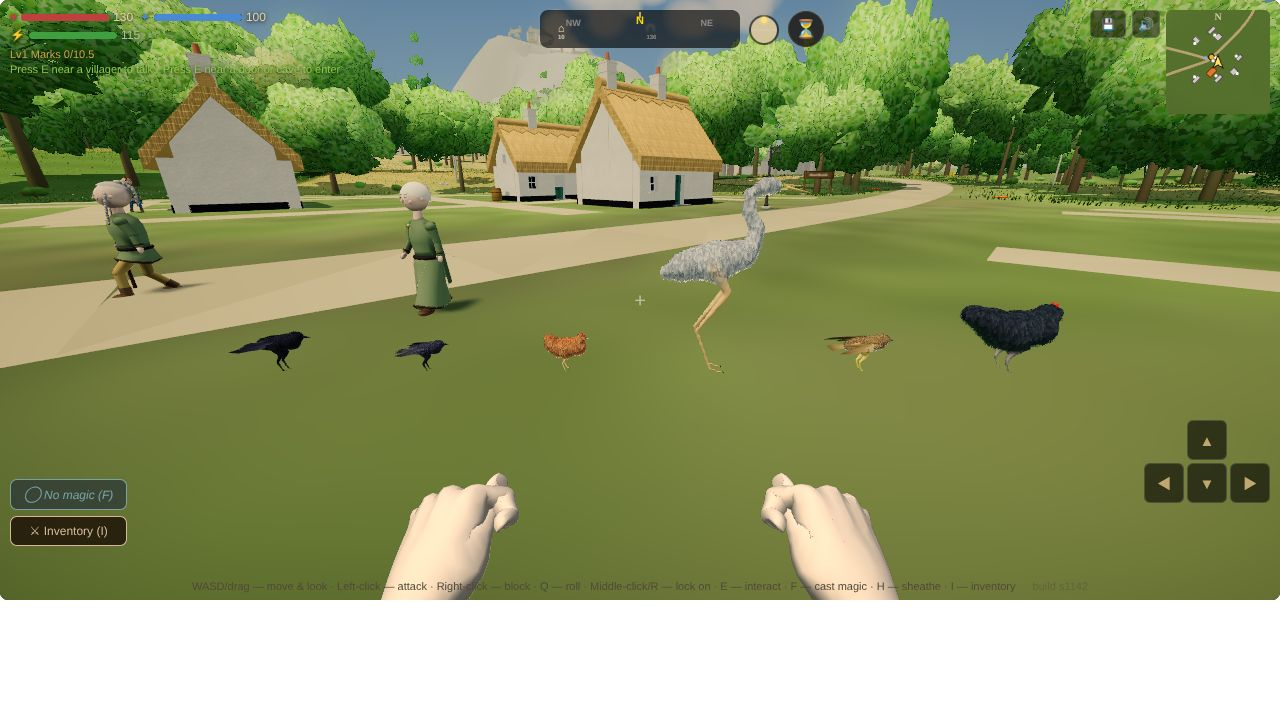
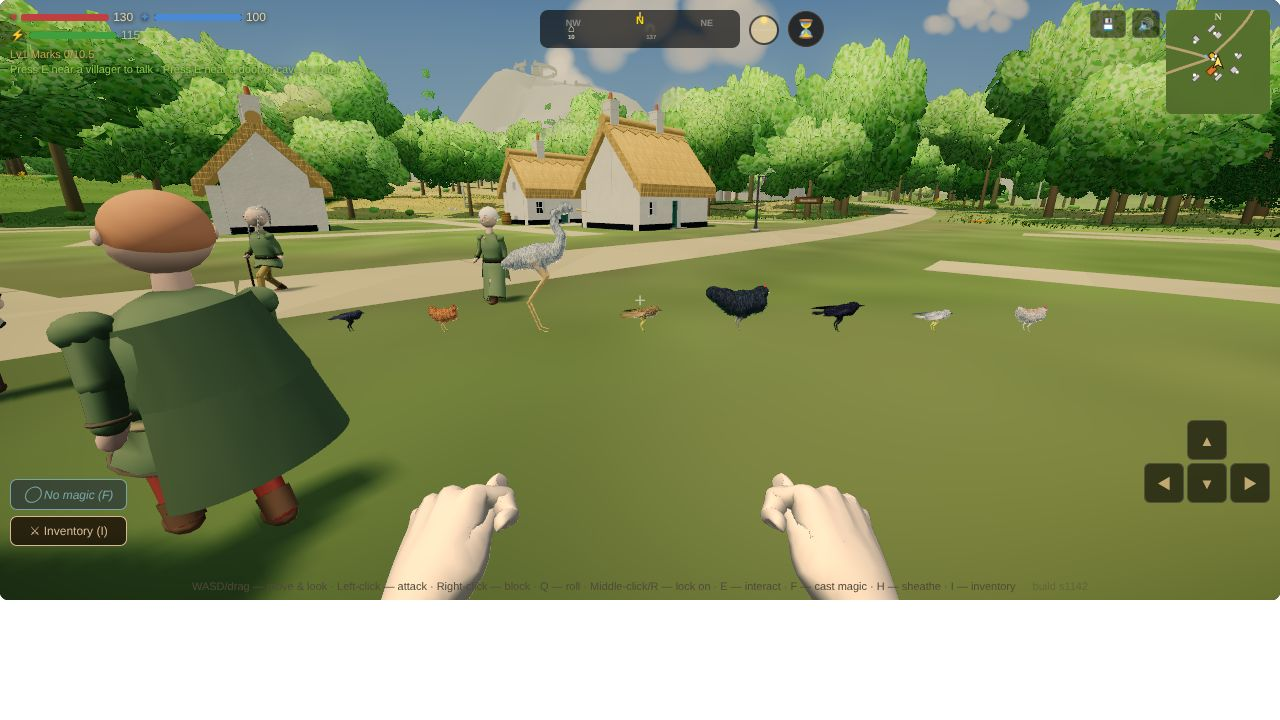
Bodies: Session 1740 — the Mark's Skyraven, Stormshrike and Tundra Grouse on the birds' path
Claude-Session: https://claude.ai/code/session_019eFMMoLi6YaA85dpmn3a9F

diff --git a/js/34-creatures.js b/js/34-creatures.js
@@ -340,6 +340,9 @@ BIRD.Hen={len:.4,col:0x99602e,hop:.8,run:'trot',farm:true};
 // (hcBirdPose): it hops if it has a hop, else trots, else walks; it soars only if it has a soar. So the Crag Hawk walks and soars, the Great
 // Heron walks (lifted, it keeps walking), the Capercaillie trots as the hen does. Beak to tail 0.95, 0.55 and 0.85 m (the cock)
 BIRD['Great Heron']={len:.95,col:0x9ea3a8,hop:1.2};BIRD['Crag Hawk']={len:.55,col:0x704f33,hop:.9};BIRD.Capercaillie={len:.85,col:0x1f2124,hop:1};
+// Session 1740: the Mark's three (L3, OG-031; the kit's MARK), wild. The Skyraven is the kit's raven at full size (the common raven is it at
+// .9), so it hops and soars; the Stormshrike, the hawk's plan in white, walks and soars; the Tundra Grouse, the hen's, trots and never soars
+BIRD.Skyraven={len:.64,col:0x14141a,hop:1};BIRD.Stormshrike={len:.47,col:0xe0e0e2,hop:.9};BIRD['Tundra Grouse']={len:.40,col:0xd8d4cc,hop:.9};
 function birdStandIn(len,col){const k=len/.535,parts=[],M=new THREE.Matrix4(),put=(geo,x,y,z,sx,sy,sz,rx)=>{M.makeRotationX(rx||0);
     const g=geo.index?geo.toNonIndexed():geo;g.applyMatrix4(new THREE.Matrix4().makeScale(sx,sy,sz).premultiply(M).premultiply(new THREE.Matrix4().makeTranslation(x*k,y*k,z*k)));parts.push(g);};
   put(new THREE.SphereGeometry(1,10,7),0,.17,0,.08*k,.075*k,.17*k);put(new THREE.SphereGeometry(.055*k,8,6),0,.25,.15,1,1,1);
@@ -928,7 +931,7 @@ const HC_KINDS={'Wolf':{plan:'wolf'},'Snow Wolf':{plan:'wolf',own:true},'Dire Wo
   'Gargoyle':{plan:'gargoyle',own:true,person:true,merge:true,ik:true,glow:[1,.31,.13],glowR:.032,glowAt:{f:.8,up:.55,out:.5},garg:true},
   'Wraith':{plan:'wraith',own:true,person:true,legless:true,rest:HC_WRAITH_REST},'Phantom':{plan:'phantom',own:true,person:true,legless:true,rest:HC_WRAITH_REST},
   'Deer':{plan:'deer',ik:true},'Hind':{plan:'deer',own:true,ik:true,bare:true},'Red Fox':{plan:'redfox'},'Brown Hare':{plan:'brownhare'},'Badger':{plan:'badger'},'Otter':{plan:'otter'},'Cow':{plan:'cow',ik:true},'Sheep':{plan:'sheep',ik:true},'Goat':{plan:'goat',ik:true},'Elderstag':{plan:'stag',ik:true},'Gatefen Boar':{plan:'gatefenboar'},'Redspine Fox':{plan:'redspinefox'},'Hollowcat':{plan:'hollowcat'},'Greenward Stoat':{plan:'stoat'},'Icehorn':{plan:'icehorn',ik:true},'Ironpine Elk':{plan:'ironpineelk',ik:true},'Craghorn Ram':{plan:'craghornram',ik:true},'Stormlynx':{plan:'stormlynx'},'Glacial Marmot':{plan:'glacialmarmot'},'Snowleap Hare':{plan:'snowhare'},
-  'Shark':{plan:'reefshark',fish:true},'Whale':{plan:'stormwhale',fish:true},'Dolphin':{plan:'stormswift',fish:true},'Gull':{plan:'gull',fish:true,own:true,cell:.014},'Raven':{plan:'raven',fish:true,own:true,cell:.014},'Crow':{plan:'crow',fish:true,own:true,cell:.012},'Trout':{plan:'trout',fish:true,own:true,cell:.014},'River Pike':{plan:'riverpike',fish:true,own:true,cell:.02},'Mire Snake':{plan:'miresnake',fish:true,own:true,cell:.016},'Lantern Beetle':{plan:'lanternbeetle',fish:true,own:true,cell:.03},'Stonecrawler':{plan:'stonecrawler',fish:true,own:true,cell:.01},'Marsh Frog':{plan:'marshfrog',fish:true,own:true,cell:.012},'Hen':{plan:'hen',fish:true,own:true,cell:.012},'Great Heron':{plan:'heron',fish:true,own:true,cell:.016},'Crag Hawk':{plan:'craghawk',fish:true,own:true,cell:.014},'Capercaillie':{plan:'capercaillie',fish:true,own:true,cell:.016},'Slime':{plan:'slime',fish:true},'Fire Elemental':{plan:'fireelemental',fish:true}};
+  'Shark':{plan:'reefshark',fish:true},'Whale':{plan:'stormwhale',fish:true},'Dolphin':{plan:'stormswift',fish:true},'Gull':{plan:'gull',fish:true,own:true,cell:.014},'Raven':{plan:'raven',fish:true,own:true,cell:.014},'Crow':{plan:'crow',fish:true,own:true,cell:.012},'Trout':{plan:'trout',fish:true,own:true,cell:.014},'River Pike':{plan:'riverpike',fish:true,own:true,cell:.02},'Mire Snake':{plan:'miresnake',fish:true,own:true,cell:.016},'Lantern Beetle':{plan:'lanternbeetle',fish:true,own:true,cell:.03},'Stonecrawler':{plan:'stonecrawler',fish:true,own:true,cell:.01},'Marsh Frog':{plan:'marshfrog',fish:true,own:true,cell:.012},'Hen':{plan:'hen',fish:true,own:true,cell:.012},'Great Heron':{plan:'heron',fish:true,own:true,cell:.016},'Crag Hawk':{plan:'craghawk',fish:true,own:true,cell:.014},'Capercaillie':{plan:'capercaillie',fish:true,own:true,cell:.016},'Skyraven':{plan:'skyraven',fish:true,own:true,cell:.014},'Stormshrike':{plan:'stormshrike',fish:true,own:true,cell:.014},'Tundra Grouse':{plan:'tundragrouse',fish:true,own:true,cell:.012},'Slime':{plan:'slime',fish:true},'Fire Elemental':{plan:'fireelemental',fish:true}};
 // the driver's joints and the kit's bones they move, parents first (the kit's front legs hang on spine3, the hind on spine0)
 const HC_MAP=[['hips','spine0'],['spine','spine1'],['neck','neck0'],['head','head'],['jaw','jaw'],['tail1','tail0'],['tail2','tail1'],['tail3','tail2'],
   ['shL','leg0L_0'],['elL','leg0L_1'],['wrL','leg0L_2'],['pfL','leg0L_3'],['shR','leg0R_0'],['elR','leg0R_1'],['wrR','leg0R_2'],['pfR','leg0R_3'],

diff --git a/docs/backlog.md b/docs/backlog.md
@@ -552,7 +552,7 @@ Michael marked all 96 images of the intake on the review page: 63 KEEP and 33 NO
 ### L3. Wildlife (the biggest gap: no peaceful land animals today)
 - **The common set first** (look builder, `34-creatures.js`; OG-084): wolf, red fox, brown hare, raven, crow, boar, deer, badger, otter, trout, built once and recoloured by island. Peaceful by default; one name per animal. **Prototyped as plans in the kit, Session 843** (bodies builder; `creatures.js` `COMMON`, `creatures-common.jpg`): all ten build and walk; owed: the game (after F4, behind `?look=new`), ~~the wolf~~ in it since Session 1202 (the Wolf, the Snow Wolf, the Dire Wolf; `f4wolves`), ~~the boar~~ since Session 1251 (the Boar foe's body, and the Mark's bear in the Cave Bear's brown as the Cave Bear's; `f4beasts`), ~~the Ash Hound~~ since Session 1274 (the kit's own `ashhound`: the wolf leaner and ash-grey, eyes lit, the embers a broken seam down the back; `f4beasts`, `f4wolves`), the peaceful ones still owed (they need a spawn, the systems builder's; **asked, Session 1687**, DECISION #984: where, how many, what they do on seeing you, and whether you can hunt them; A, present and huntable, recommended); Michael's A, present and huntable); ~~their bodies in the game~~ — done, Session 1704 (the Deer, the Red Fox, the Brown Hare, the Badger and the Otter: `buildAnimal(name,key)` in `34-creatures.js`, the kit's own plan each at its size in metres, keyed `wild:<key>`; `f4animals`; half the deer hinds by key, Session 1706), so the spawn is the systems builder's to call; ~~the spawn~~ — done, Session 1707 (`tickWildSpawn` in `88-world-ticks.js`: a chunk within 150 m rolls one group or none by its id and biome, off pads and roads; `tickWildOne` in `42-zone-enemies.js`: they graze, wander and run 40 m from your sight or sound; one blow kills, a deer 2 to 4 meat, a hare 1; `wildlife`); ~~the raven and the crow~~ — done, Sessions 1710 (their body, `buildBird`) and 1716 (in the spawn, carried from #1008 where it was first numbered 1711: crows on fields and shore, ravens on moor and tundra; startled they take off to 8–14 m, fly 60 m and land; aloft out of a blade's reach, an arrow must meet their height; `wildlife`); ~~the trout's body~~ — done, Session 1712 (`buildAnimal('Trout', key)`, no driver, a 120-triangle stand-in and the kit's trout near, 4,156 triangles, its beat by the water its group covers; `f4animals`), its spawn in the rivers the systems builder's (**asked, Session 1718**, DECISION #1014: how you take one; A, by hand while swimming as at sea or struck from the bank, recommended); ~~the island recolourings~~ — done, Session 865 (`COATS`, a genome's `island`); ~~the badger's face stripes~~ — done, Session 845 (a face mask in the kit). ~~Their feet on a slope (`character-builder.md`, B5)~~ — done, Session 1547 (`hcGround`: each toe on the ground under it by a two-bone reach, the body lowered when a downhill leg is straight; the bear 17 → 3 cm on a 0.20 slope; `f4beasts`).
 - **The Gatelands' fifteen** (OG-009): Elderstag, Gatefen Boar (roots up forgotten paths), Redspine Fox, otter, heron, badger, Hollowcat, stoat, Crag Hawk, Marsh Frog, River Pike, Stonecrawler, Mire Snake, Lantern Beetle (glows near ruins; an ingredient); a capercaillie in place of the turkey. **All fifteen are plans in the kit, Session 846** (bodies builder; `creatures.js` `GATELANDS`, `creatures-gatelands.jpg`); owed: the game, after F4: ~~the Elderstag, the Gatefen Boar, the Redspine Fox, the Hollowcat and the Greenward Stoat~~ have bodies in it since Session 1727 (renumbered from 1722; `buildAnimal`, wild, on the wolf's driver; `f4animals`; the spawn is the systems builder's), ~~the heron, the hawk and the capercaillie~~ since Session 1723 (the birds' path, their gaits by their plans'), ~~the pike~~ since Session 1724 (the trout's path), ~~the Stonecrawler and the frog~~ since Session 1731 (the land path, the kit's own trot and hop; so all fifteen have bodies), ~~the beetle~~ since Session 1730 (the snake's path, walking on the kit's six legs, 3,652 tris), ~~the snake~~ since Session 1728 (the trout's path on land, `SWIMMER`'s `land`: lying, slithering by its group, a wave's length a cycle; ~~the kit's own `strideOf` for slither a legged one's~~ — fixed at the kit, Session 1729: a wave's length a cycle); ~~the Hollowcat sitting with its forefeet together and its tail wrapped round~~ — done, Sessions 1126 and 1130 (`sitTuck`, `sitWrap`; the Sunspire Lynx too, the Stormlynx's bobtail not). ~~The heron's straight neck (the critic's question on S1723, an ostrich?)~~ — done, Session 1738: an S at rest, the kit's neck `bends`.
-- **The Mark's fifteen** (OG-031): Icehorn (horns that moan in the wind), Ironpine Elk, Stormlynx, Skyraven, Craghorn Ram, Glacial Marmot, Stormshrike, Snowleap Hare (coat by season), Riverjaw Salmon (leaps the falls), Tundra Grouse, Icecrab; Stonefang Wolf and Frostreach Bear as reskins of the Snow Wolf and Cave Bear. **All fifteen are plans in the kit, Session 847** (bodies builder; `creatures.js` `MARK`, `creatures-mark.jpg`); owed: the game, after F4: ~~the Icehorn, the Ironpine Elk, the Craghorn Ram, the Stormlynx, the Glacial Marmot and the Snowleap Hare~~ have bodies in it since Session 1739 (`buildAnimal`, wild, on the wolf's driver; `f4animals`; `docs/prototypes/f4/f4-mark.jpg`; the spawn is the systems builder's); still owed: the Skyraven, the Stormshrike and the Tundra Grouse (the birds' path), the Riverjaw Salmon (the trout's), the Frostspine Lizard and the Icecrab (the land path); the bear and the wolf are the Cave Bear's and the Dire Wolf's; the Shatterback is the sea's.
+- **The Mark's fifteen** (OG-031): Icehorn (horns that moan in the wind), Ironpine Elk, Stormlynx, Skyraven, Craghorn Ram, Glacial Marmot, Stormshrike, Snowleap Hare (coat by season), Riverjaw Salmon (leaps the falls), Tundra Grouse, Icecrab; Stonefang Wolf and Frostreach Bear as reskins of the Snow Wolf and Cave Bear. **All fifteen are plans in the kit, Session 847** (bodies builder; `creatures.js` `MARK`, `creatures-mark.jpg`); owed: the game, after F4: ~~the Icehorn, the Ironpine Elk, the Craghorn Ram, the Stormlynx, the Glacial Marmot and the Snowleap Hare~~ have bodies in it since Session 1739 (`buildAnimal`, wild, on the wolf's driver; `f4animals`; `docs/prototypes/f4/f4-mark.jpg`; the spawn is the systems builder's); ~~the Skyraven, the Stormshrike and the Tundra Grouse~~ since Session 1740 (the birds' path); still owed: the Riverjaw Salmon (the trout's), the Frostspine Lizard and the Icecrab (the land path); the bear and the wolf are the Cave Bear's and the Dire Wolf's; the Shatterback is the sea's.
 - **Aurenne's fifteen** (OG-030): Duneskimmer, Terrace Ram, Oasis Hare, Scarlet Ibis, Mirage Fox, Cliffswift, Amber Shellcrab (harvestable), Cypress Stalker, Glasswing Moth (an ingredient), Sunbeak Vulture, Spined Gekko; the Saltspine Monitor hostile; the Dunescorpion as the Sand Scorpion's skin; the Sand Wyrm as a set piece known by its funnels. **Fourteen are plans in the kit, Session 848** (bodies builder; `creatures.js` `AURENNE`, `creatures-aurenne.jpg`); owed: the game, after F4; ~~the Glasswing Moth~~ — done, Session 864 (a moth's glass wings in the kit), so all fifteen are plans.
 - **The strange beasts** (OG-040): the Crownstag, the Mossback (a tortoise carrying a garden), the Bellthroat (its call at dusk), the Lanternfox, the Thornrunner; the Shatterhorn, the Frostmane (a pack beast), the Glasswing, the Stonejaw, the Stormplume; the Redcrest, the Sunfan, the Mineprowler, the Sailshell. Wonder without menace, mostly peaceful. A few have six legs, and that is ordinary (Michael's 9 A). **All fourteen are plans in the kit, Session 853** (bodies builder; `creatures.js` `STRANGE`, `creatures-strange.jpg`): six from Sessions 773 to 775 and eight new (the Crownstag, the Lanternfox, the Thornrunner, the Frostmane, the Glasswing, the Stonejaw, the Redcrest, the Sunfan); owed: the game, after F4.
 - **The sea** (OG-016, OG-084, OG-031): tidecrab, moray, rays, lantern jelly, flying fish, squid, seals, dolphins, octopus, turtles; the Shatterback and the maw turtle as landmarks mistaken for rock; the gate eel and the Gate Leviathan as a sea gate's antibodies (the Mouth, the Vault of the Tide), seams glowing. **Seventeen are plans in the kit, Session 854** (bodies builder; `creatures.js` `SEA`, `creatures-sea.jpg`): the reef moray, the starweed and sailfin rays, the lantern jelly, the coastal tuna, the skyskimmer, the Stormswift (a dolphin), the drifter squid, the reef shark (~~a shark of its own, not the salmon recoloured~~ — done, Session 1528: the game's shark, Michael's A on S230, as the brief; `creatures-reefshark*.jpg`; ~~the gill bands' chequer~~ — done, Session 1530 (slits as ribbons on the grown skin, `gillSlits`); ~~owed: the game's Shark wearing it~~ — done, Session 1529: on the new look, posed by the kit's swim gait at the old tail's beat, `hcFishRig`; `f4sharks`), the grey seal, the blackcurrent eel, the gate eel and the Gate Leviathan, beside the Tidecrab, the Storm Whale (~~the game's whales wearing it~~ — done, Session 1536: on the new look, `hcWhaleRig`, the fluke's beat at a quarter stroke a second; `f4sharks`; ~~the bow-wave dolphins as the Stormswift~~ — done, Session 1537, `hcDolphinRig`), the octopus and the Shatterback; owed: the game, after F4; ~~the kelpstrider~~ — done, Session 863 (leafy fronds in the kit); ~~the pierwinkle~~ — done, Session 862 (a coiled shell in the kit); ~~the stonefish, the abyssal angler and the crimson leviathan~~ — done, Session 856; ~~turtles (a sea turtle and the maw turtle need flippers)~~ — done, Session 861 (flippers in the kit: flattened arms that stroke). ~~The ports' gulls on the kit~~ — done, Session 1595 (a `gull` plan, the raven's flier in a herring gull's colours, `SHORE`; on the new look `spawnGulls`' four wear it, `hcGullRig`, 4,252 triangles each at the game's cell; `f4sharks`, `docs/prototypes/f4/f4-gull.jpg`, `creatures-gull*.jpg`). ~~The shallows' fish schools on the kit~~ — done, Session 1599 (a `herring` plan in `SHORE`, the salmon's body slimmer and silver under a blue-green back, `saddleUp` in the kit; on the new look every school within 35 m of the eye draws it baked once and instanced, its tail swung in the shader, `hcSchools`; the old cones past it; `f4sharks`, `docs/prototypes/f4/f4-herring.jpg`, `creatures-herring.jpg`).

diff --git a/docs/devlog/1740.md b/docs/devlog/1740.md
@@ -1,0 +1,31 @@
+## v80 — Session 1740 — the Mark's three birds: the Skyraven, the Stormshrike, the Tundra Grouse
+The bodies builder's run of 2 Nov, its third item, and the second family of the Mark's fifteen (L3, OG-031). The birds have no four legs
+for the wolf's driver. They take the path the raven, the crow, the hen and the Gatelands' three already use (Sessions 1710, 1720 and 1723):
+a 264-triangle stand-in far away, the kit's bird near, posed from its group's motion.
+
+**The change** (`34-creatures.js`). Three `BIRD` rows and three `HC_KINDS` rows, nothing else:
+- **Skyraven**: 0.64 m beak to tail. It is the kit's own raven plan at full size; the common raven is that plan at 0.9. It hops and soars, as
+  the raven does.
+- **Stormshrike**: 0.47 m. The Crag Hawk's plan at 0.85, in white with grey bars. It walks fast and soars aloft, as the hawk does.
+- **Tundra Grouse**: 0.40 m. The hen's plan, mottled pale. It trots fast, and it never soars because the hen's plan has no soar. OG-031's
+  grouse flushes from the snow, so that wants a flight the spawner can call, and that is the systems builder's to ask for.
+
+Cells are 0.014 for the two hawk-shaped birds and 0.012 for the grouse, as for their parents. `buildAnimal(name, key)` builds each. The
+inspector's catalogue holds birds by their kit plans already, so it gains no entries.
+
+### Verified (headless Chromium)
+`f4animals` 1/1, all checks green. The bird line is now nine:
+- Skyraven: 64 bones, 4,260 triangles, 0.639 m.
+- Stormshrike: 64 bones, 4,192 triangles, 0.469 m.
+- Tundra Grouse: 18 bones, 5,556 triangles, 0.40 m.
+
+Each is keyed `wild:` and seeded by its key, and none has a wolf's driver. Still, all three stand. At 0.4 m/s they walk. At 1.6 m/s the
+Skyraven hops, the Stormshrike walks and the grouse trots. Lifted 4 m, the Skyraven and the Stormshrike soar and the grouse keeps trotting.
+Aloft, each spine sits within 1.5 cm of its standing height.
+
+`inspector` 1/1, still 461 entries. `parsecheck` clean. Picture: `docs/prototypes/f4/f4-birds.jpg` (the nine on Dunmore's green; the
+camera now stands 5 m back so the line fits).
+
+### Needs eyes
+Whether the Stormshrike's bars read as a white falcon's at play distance, or as a grey gull's. The grouse in its pale coat is the hen's body
+with no comb shown at this size.
